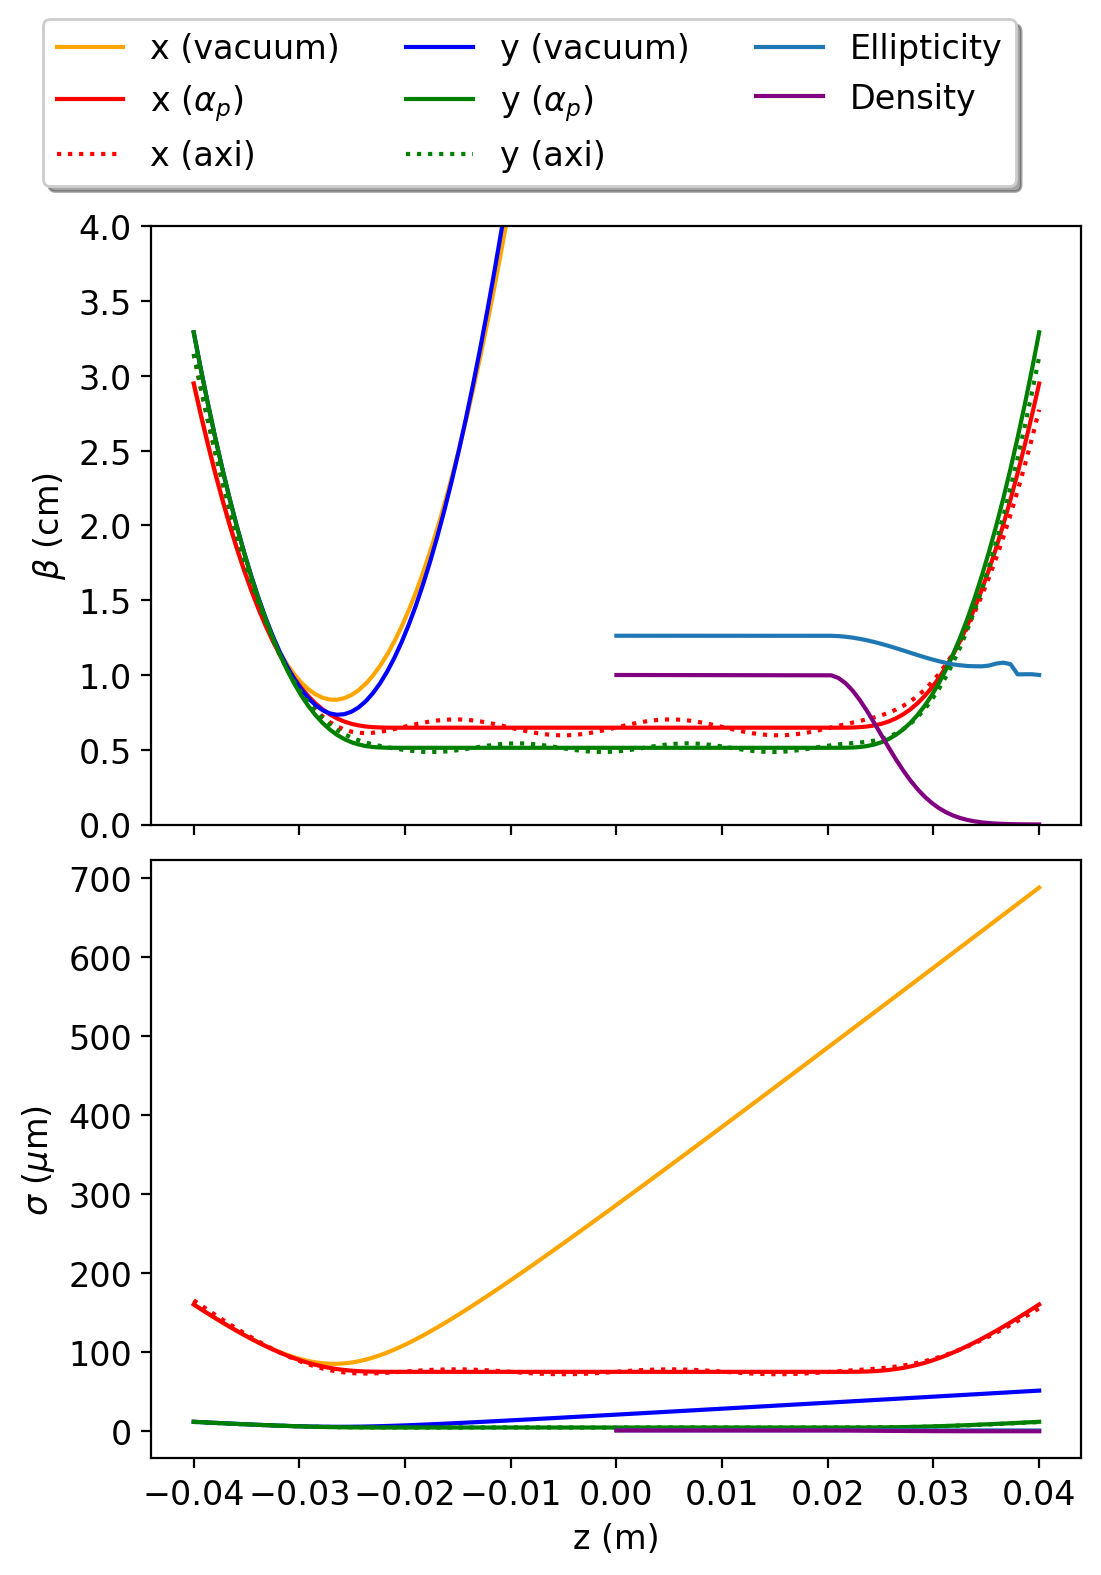
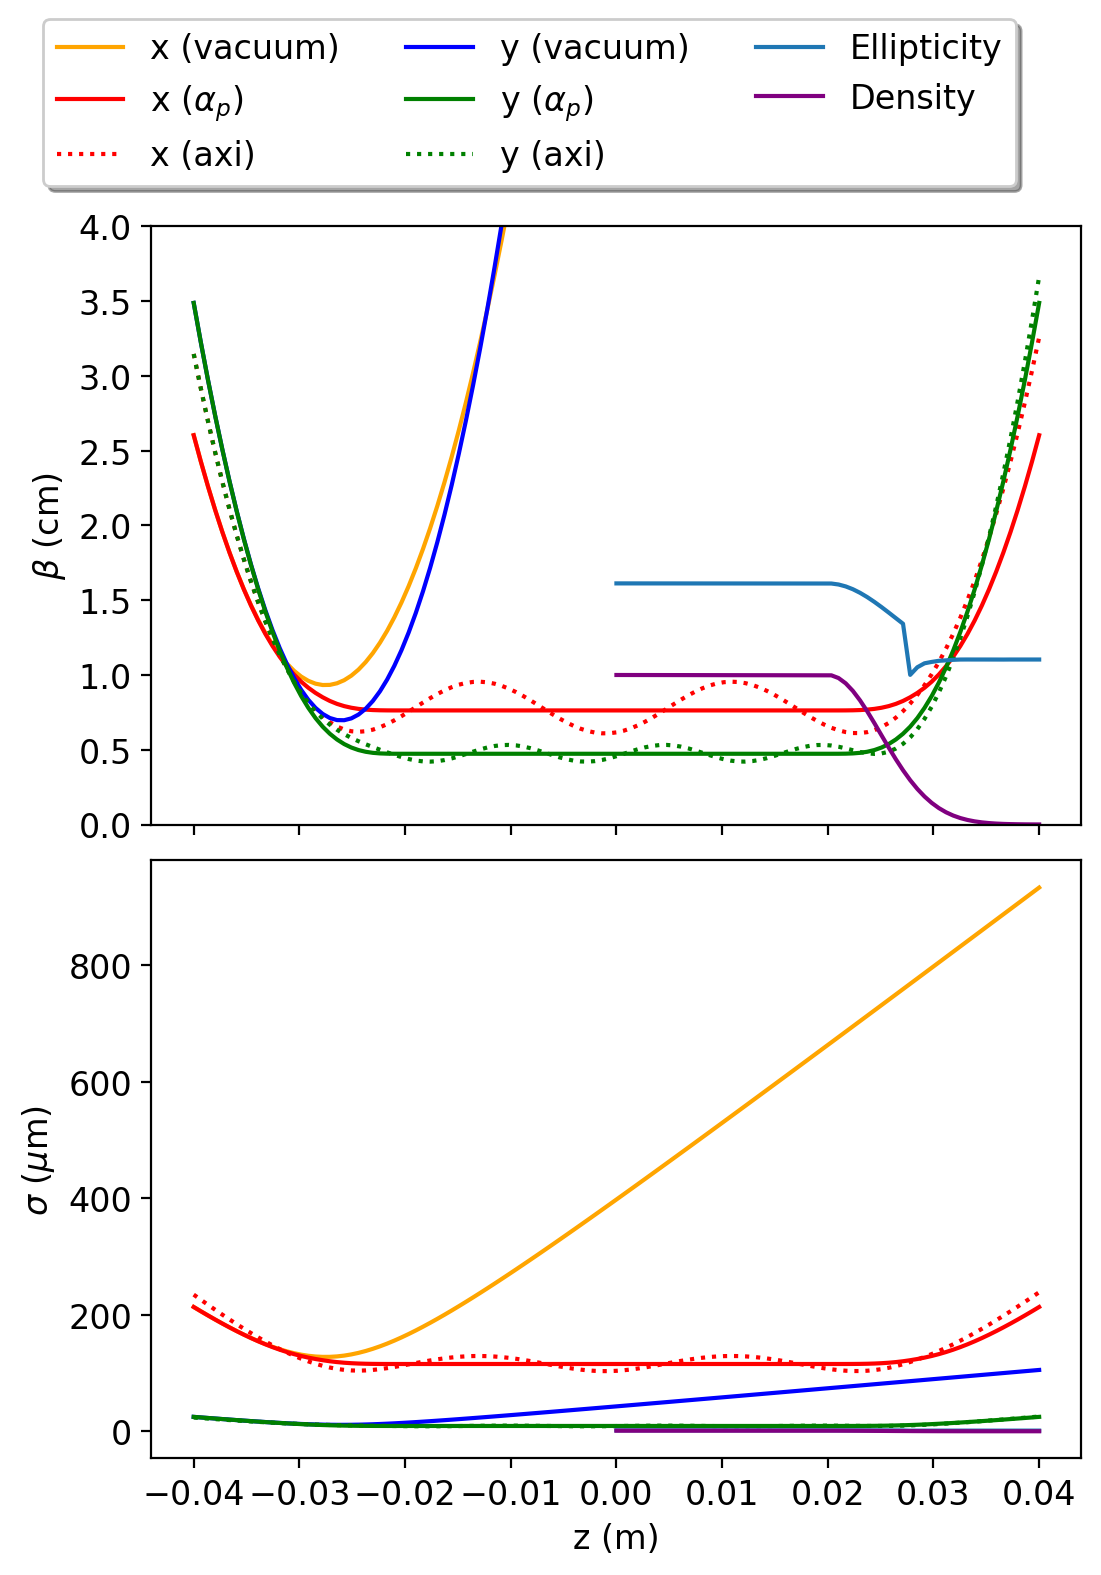
Initial commit

diff --git a/awa.py b/awa.py
@@ -28,10 +28,10 @@ n_pe= n0_base
 kpn1=pf.calculate_kpn1(n_pe)
 print(kpn1)
 window_size=6
-num_points=700
+num_points=100
 # Declare intrinsic parameters
-emit_nx = 100e-6
-emit_ny = 0.5e-6
+emit_nx = 200e-6
+emit_ny = 2e-6
 sigma_z = 600e-6
 Q =3e-9
 E = 58e6
